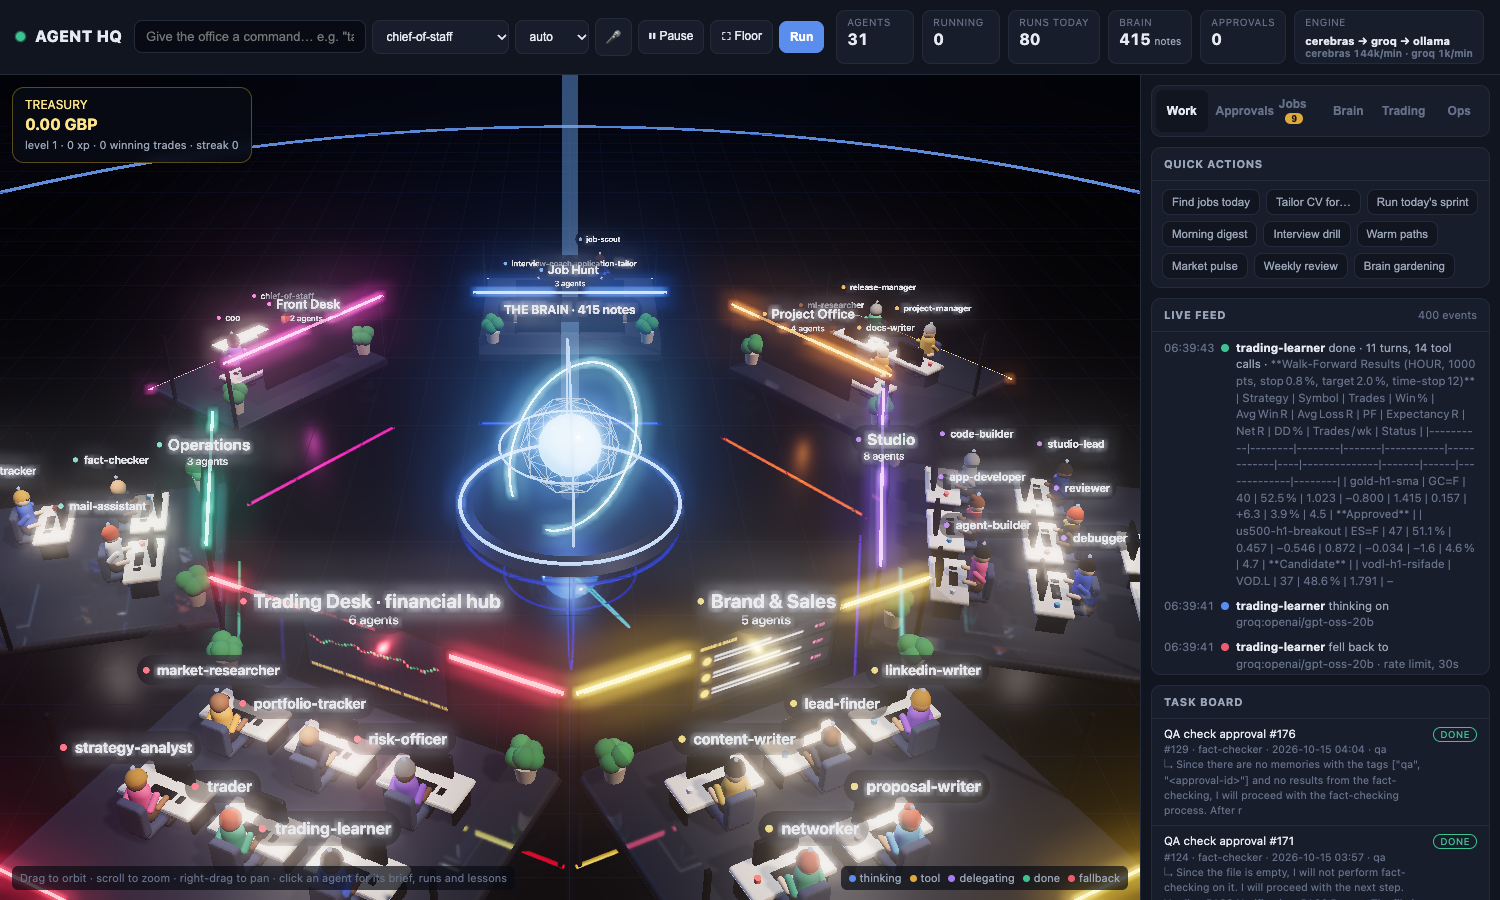
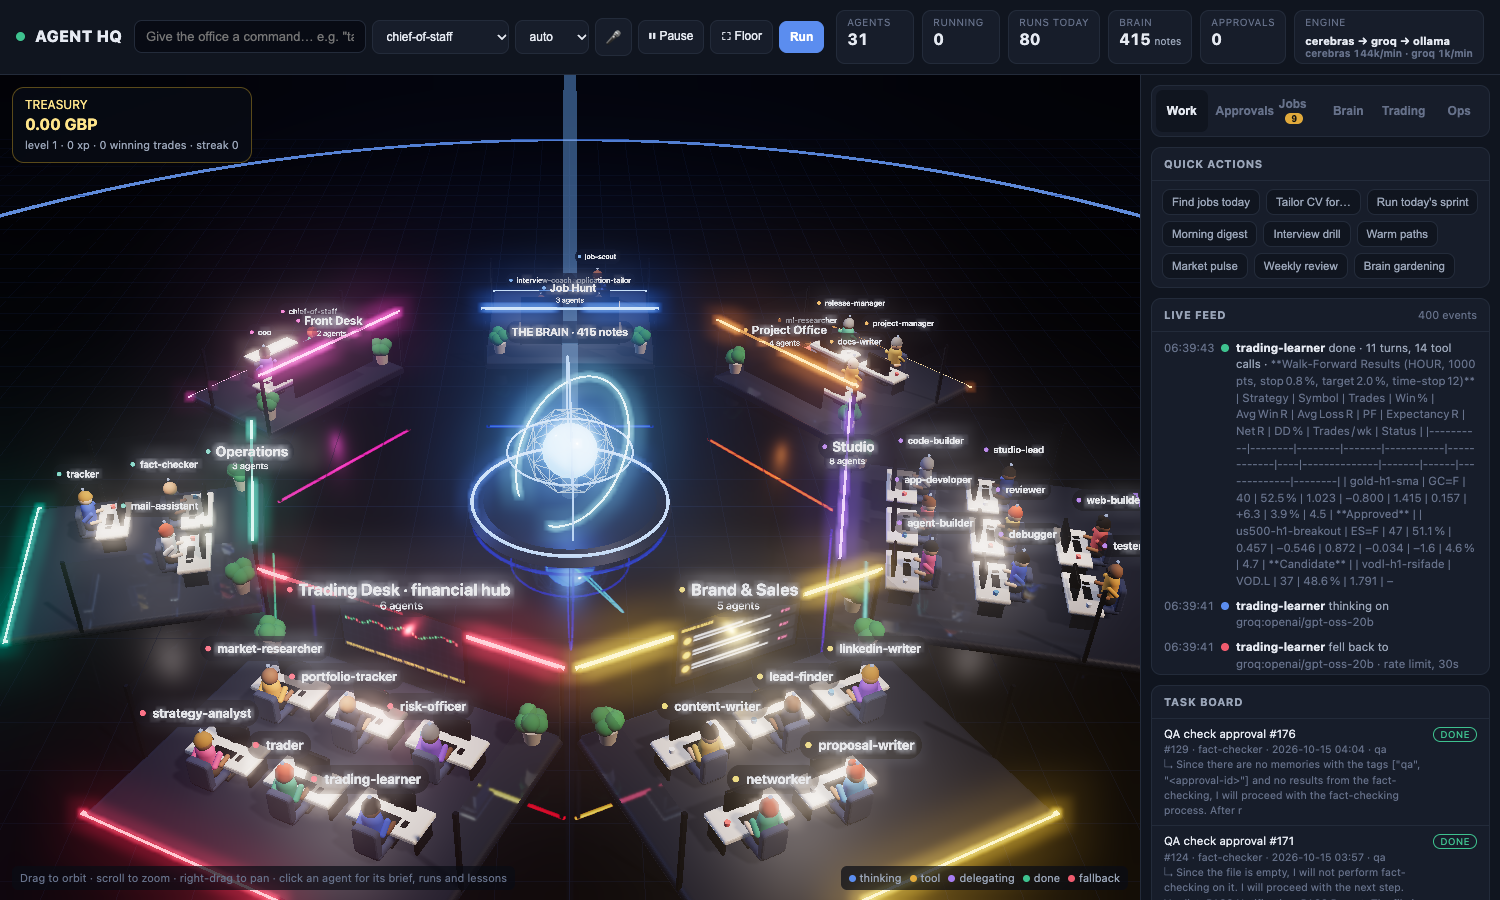
Sync from dev: 3D office: camera framing, floor-view screenshot

diff --git a/office/static/office3d.js b/office/static/office3d.js
@@ -89,7 +89,7 @@ export function init(el, options = {}) {
   renderer.toneMapping = THREE.ACESFilmicToneMapping; renderer.toneMappingExposure = 1.15; renderer.outputColorSpace = THREE.SRGBColorSpace;
   el.appendChild(renderer.domElement);
   scene = new THREE.Scene(); scene.background = new THREE.Color(0x090c16); scene.fog = new THREE.Fog(0x090c16, 170, 330);
-  camera = new THREE.PerspectiveCamera(38, 1, 0.5, 700); camera.position.set(0, 58, 88);
+  camera = new THREE.PerspectiveCamera(38, 1, 0.5, 700); camera.position.set(0, 66, 98);
   controls = new OrbitControls(camera, renderer.domElement); controls.enableDamping = true; controls.dampingFactor = 0.07;
   controls.maxPolarAngle = Math.PI / 2.3; controls.minPolarAngle = 0.3; controls.minDistance = 20; controls.maxDistance = 200; controls.target.set(0, 1, -2);
   raycaster = new THREE.Raycaster(); mouse = new THREE.Vector2();
@@ -125,7 +125,7 @@ export function resize() {
   renderer.setSize(w, h, false); renderer.domElement.style.width = w + "px"; renderer.domElement.style.height = h + "px";
   camera.aspect = w / h; camera.updateProjectionMatrix(); composer.setSize(w, h); bloom.resolution.set(w, h);
 }
-export function floorView(on) { setTimeout(resize, 30); if (on) { camera.position.set(0, 52, 80); controls.target.set(0, 1, -2); } }
+export function floorView(on) { setTimeout(resize, 30); if (on) { camera.position.set(0, 62, 92); controls.target.set(0, 1, -4); } }
 
 function pick(e) {
   const r = renderer.domElement.getBoundingClientRect();
